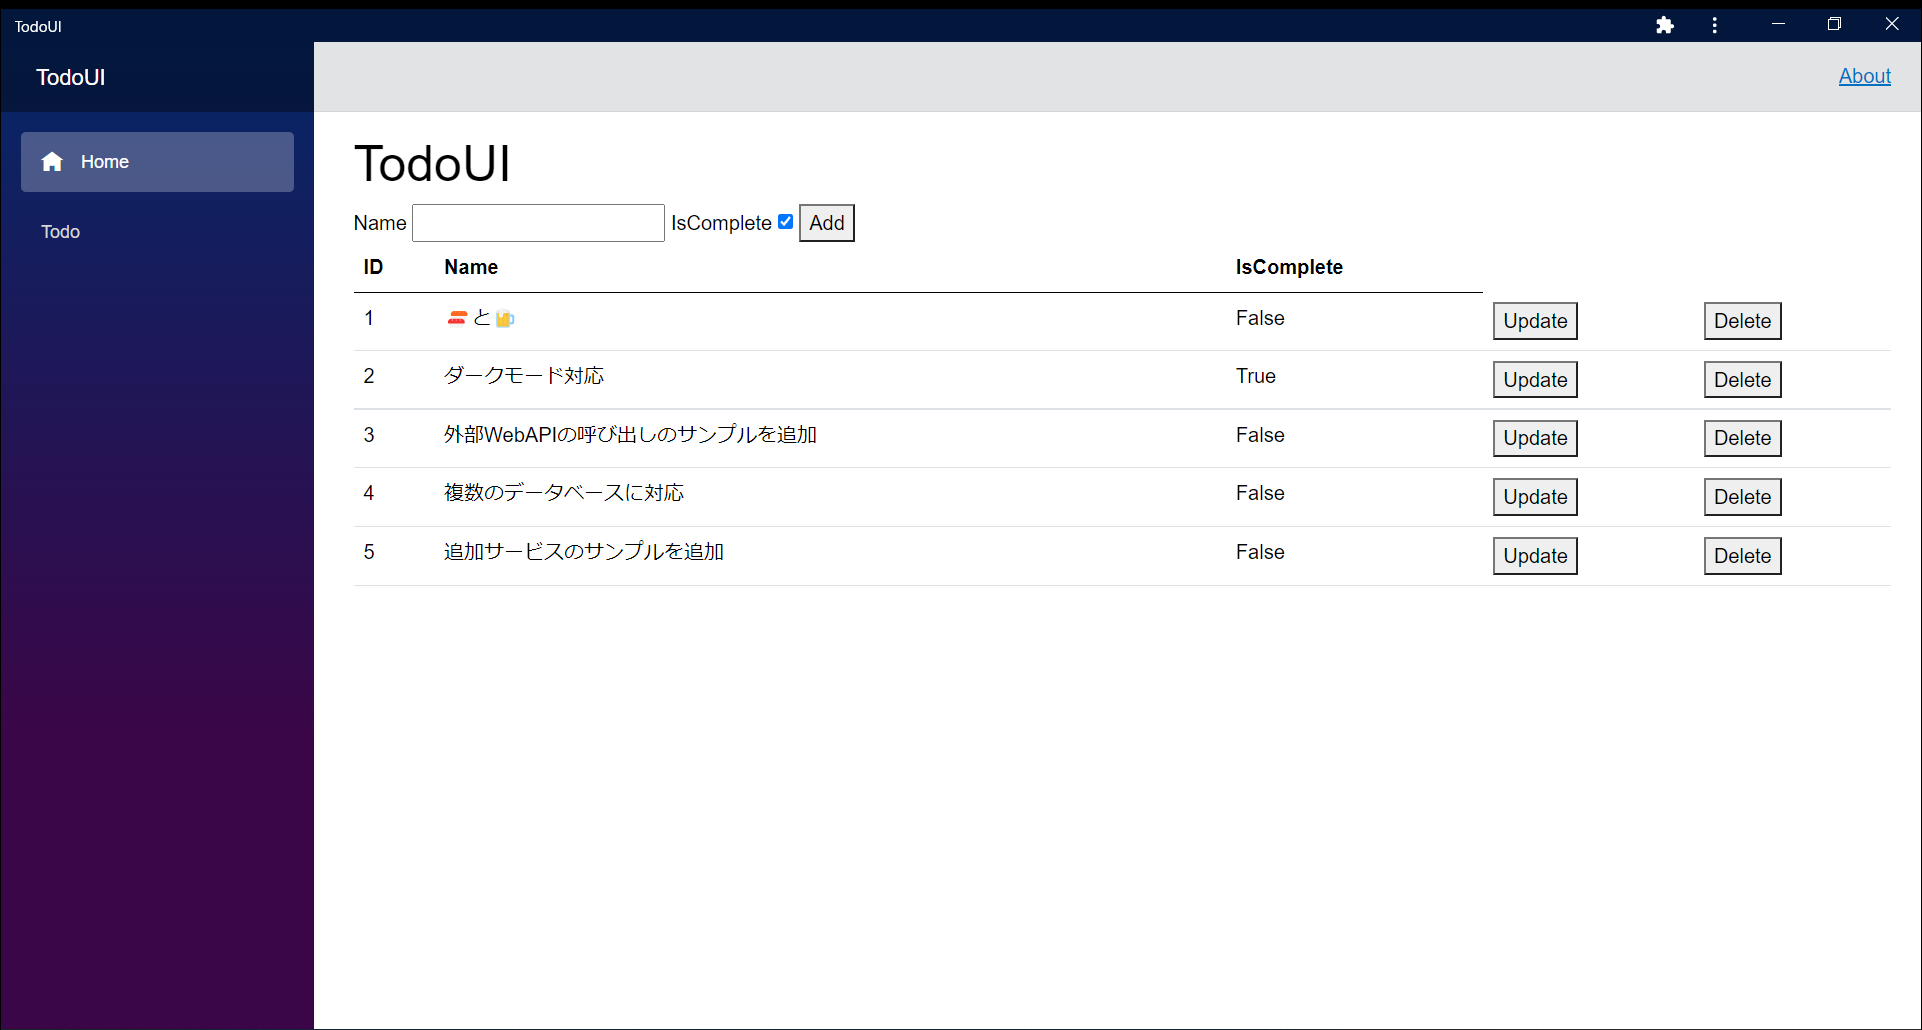
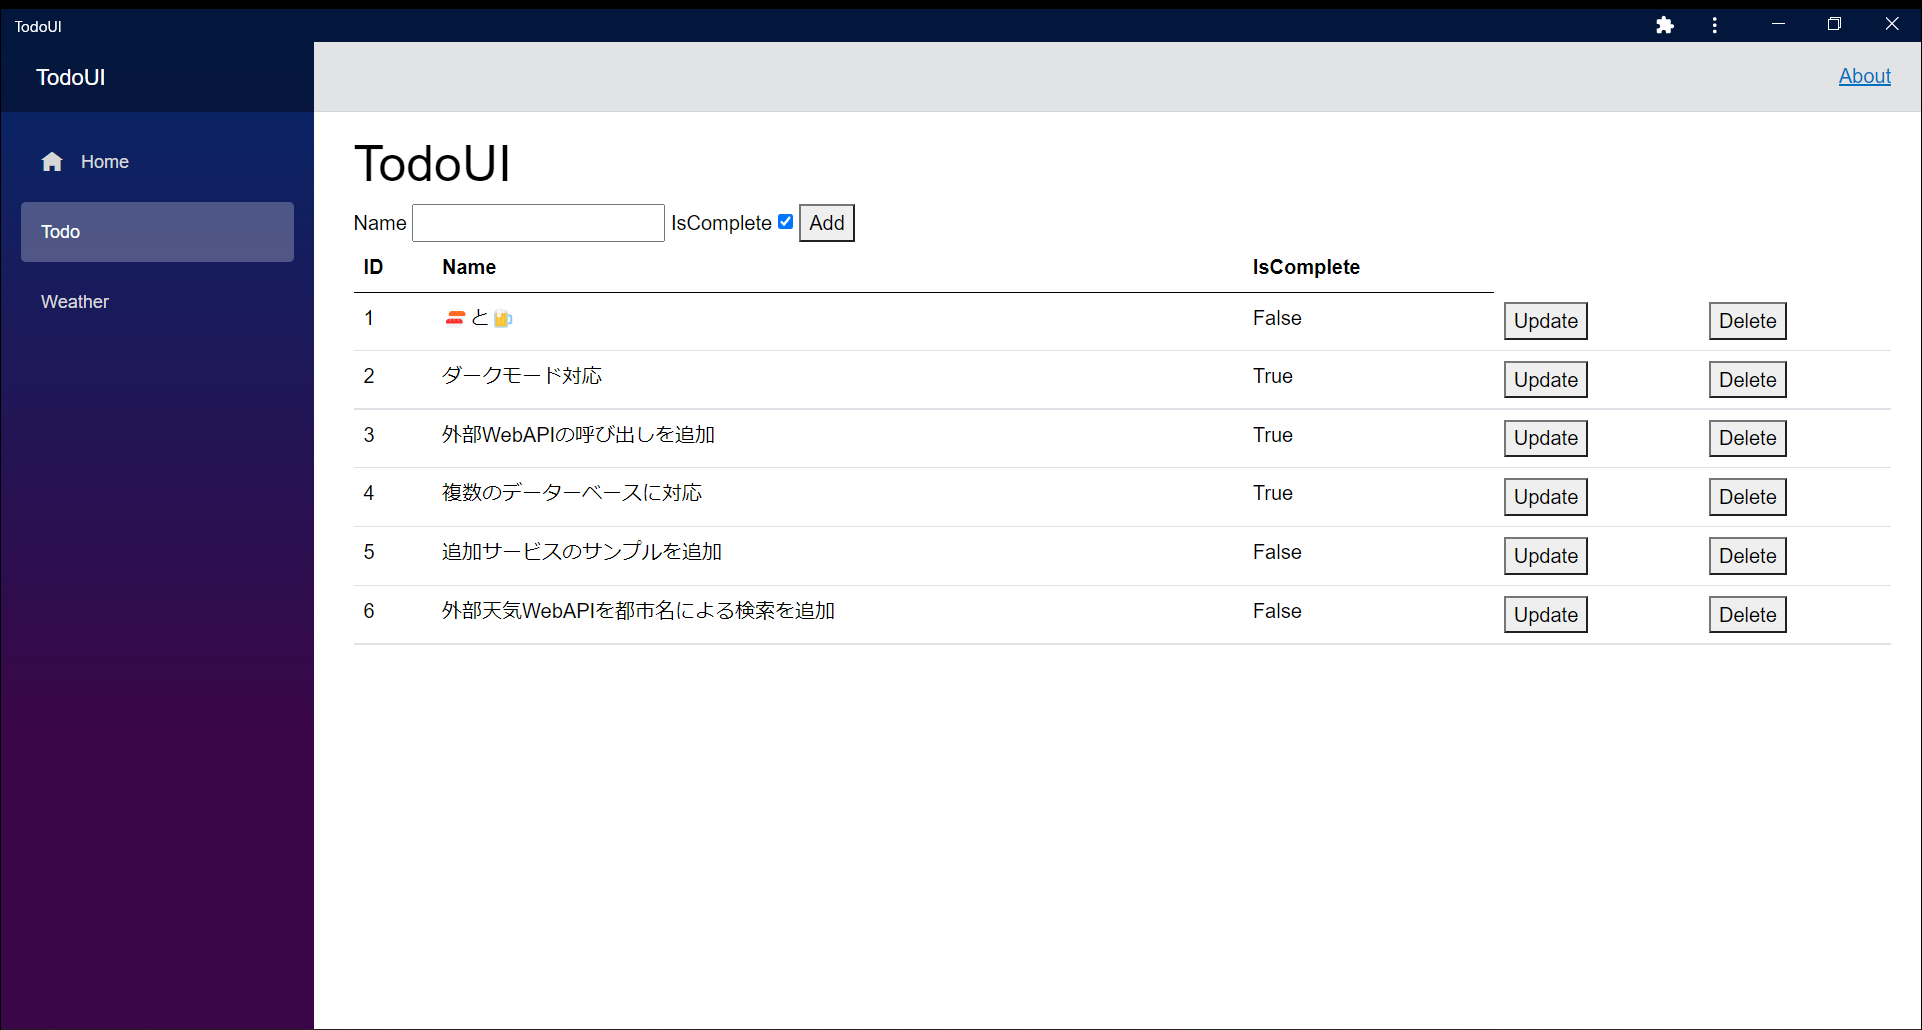
ADD External WebAPI Sample Readme

diff --git a/Readme.md b/Readme.md
@@ -4,9 +4,15 @@ This project is a todo application that uses a microservice architecture.
 
 It was created for learning microservice architecture.
 
+The base minimum configuration is [this branch](https://github.com/Yutaro-B18016/TodoApp-For-Microservices/tree/v1.0.0-Minimum-Configuration).
+
+Additional microservices and external WebAPI examples are in [this branch](https://github.com/Yutaro-B18016/TodoApp-For-Microservices/tree/master).
+
 ![TodoUI](./images/TodoUI.png)
 
 ![TodoUI Dark](./images/TodoUI-Dark.png)
+
+![TodoUI Sample External](./images/TodoUI-Sample-External.png)
 
 ## Structure
 
@@ -18,9 +24,16 @@ It was created for learning microservice architecture.
 |          TodoDB           |        DB         |   ----    |   MariaDB   | ubuntu |             ----             | DB For TodoApi.                                   |    ----     |
 | TodoDB-Console (Optional) | DB UI (Optional)  |   ----    |   adminer   | alpine |             ----             | TodoDB Optional UI                                |   TodoDB    |
 
+### Additional Microservices/External WebAPI Sample
+
+|  Name  |  Type  | Languages | Environment |  OS   | Framework | Description            | Dependences |
+| :----: | :----: | :-------: | :---------: | :---: | :-------: | ---------------------- | :---------: |
+| Weater | WebAPI |   ----    |    ----     | ----  |   ----    | External WebAPI Sample |    ----     |
+
 ### Access Flow
 
 TodoEndpoint -> TodoUI -> TodoApi -> TodoDB
+                       -> External Weather WebAPI
 
 ## Deployment
 
@@ -199,6 +212,12 @@ After opening, select `Reopen in Container` in the notification at the bottom ri
 - PWA Support (Except offline, `https` configuration required except localhost)
 - Dark-Mode Support (Depends on device settings)
 
+#### Mapping
+
+- / -> TodoApi
+- /todo -> TodoApi
+- /weather -> External Weather WebAPI
+
 ### TodoEndpoint
 
 |     ENV     |           Default Value           |  Type   |   Description   | Enable/Disable |
@@ -224,3 +243,18 @@ If you want to expose the TodoApi to the External, you will need to change [defa
 |          ENV           | Default Value |       Type        |   Description   | Enable/Disable |
 | :--------------------: | :-----------: | :---------------: | :-------------: | :------------: |
 | ADMINER_DEFAULT_SERVER |    tododb     | Internal Endpoint | TodoDB Endpoint |     Enable     |
+
+### External WebAPI Sample
+
+#### WebAPI Json URL Format
+
+- https://www.jma.go.jp/bosai/forecast/data/overview_forecast/${ID}.json
+
+#### GET ID Json URL
+
+- http://www.jma.go.jp/bosai/common/const/area.json
+
+ex)
+https://www.jma.go.jp/bosai/forecast/data/overview_forecast/130000.json
+
+<q><cite>出典:気象庁ホームページ https://www.jma.go.jp/bosai/forecast/data/overview_forecast/130000.json</cite></q>
